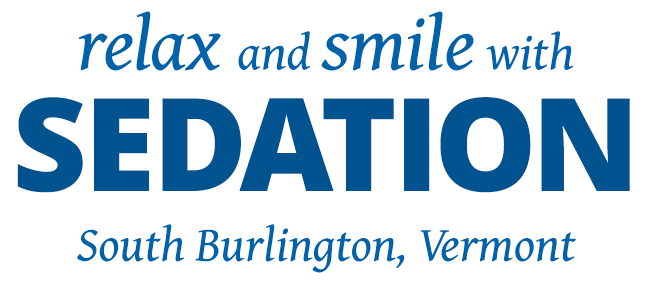
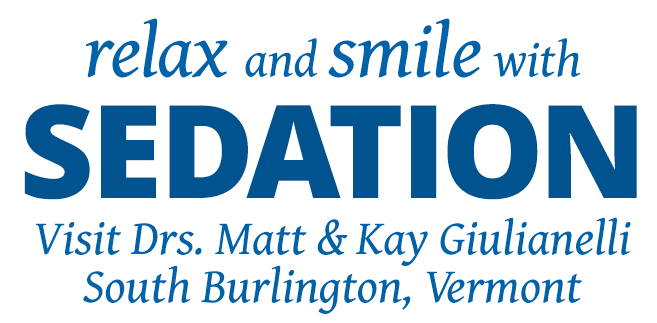
making client requested edits

Changed region(s): [[0.0, 0.3132, 0.9877, 0.968], [0.1235, 0.0285, 0.8951, 0.2562], [0.8333, 0.3132, 0.8951, 0.3701]]

diff --git a/public/index.html b/public/index.html
@@ -50,29 +50,6 @@
         ============================================= -->
         <div id="wrapper" class="clearfix">
 
-            <!-- Top Bar
-            ============================================= -->
-            <div id="top-bar" class="hidden-xs">
-                <div class="container clearfix">
-                    <div class="col_half nobottommargin">
-
-                        <!-- Top Bar Phone Number
-                        ============================================= -->
-                        <p class="nomargin call-today">Call today! <a href="tel:+18889720561"><strong>(888) 972-0561</strong></a></p>
-
-                    </div>
-                    <div class="col_half col_last fright nobottommargin">
-
-                        <!-- Top Bar Schedule Button
-                        ============================================= -->
-                        <a class="button button-small button-rounded center" data-toggle="modal" data-target="#schedule-form">Request Consultation</a>
-
-                    </div>
-                </div>
-            </div>
-
-
-
             <!-- Header
             ============================================= -->
             <header id="header" class="full-header static-sticky shadowed-edges">
@@ -84,10 +61,10 @@
                         ============================================= -->
                         <div id="logo" class="one-page-menu">
                             <a href="#" data-href="#home" class="standard-logo" data-offset="100">
-                                <img src="assets/images/giulianelli-logo.svg" alt="Champlain Smile Solutions Logo" />
+                                <img src="assets/images/logo-footer.svg" alt="Champlain Smile Solutions Logo" />
                             </a>
                             <a href="#" data-href="#home" class="retina-logo" data-offset="100">
-                                <img src="assets/images/giulianelli-logo.svg" alt="Champlain Smile Solutions Logo" />
+                                <img src="assets/images/logo-footer.svg" alt="Champlain Smile Solutions Logo" />
                             </a>
                         </div>
 
@@ -186,6 +163,20 @@
             <h4>Limit <u>6</u> consultation slots available before <%= data.endMonth %> <%= data.endDay %>, <%= data.endYear %></h4>
         </script>
 
+
+                <!-- Doctor Quote (mobile version)
+                ============================================= -->
+                <section id="quote" class="content-section clearfix page-section visible-xs visible-xxs">
+                    <div class="container clearfix">
+                        <div class="row">
+                            <div class="col-xs-12">
+                                <blockquote>
+                                    <p>&rdquo;We've been fortunate to help hundreds of patients transform their smiles and their lives. We'd be honored if you stopped by for a free consultation, giving us an opportunity to earn your trust.&ldquo; – <em>Drs. Matt &amp; Kay Giulianelli</em></p>
+                                </blockquote>
+                            </div>
+                        </div>
+                    </div>
+                </section>
                 <!-- Reviews
                 ============================================= -->
                 <section id="reviews" class="page-section shadowed-edges">

diff --git a/public/assets/css/champlainsmilesolutions.css b/public/assets/css/champlainsmilesolutions.css
@@ -192,44 +192,6 @@ header #logo img {
 
 }
 
-
-#top-bar {
-    background-color: #f0f0f0;
-    box-shadow: inset 0 -10px 10px -10px rgba(0, 0, 0, .2);
-    font-family: 'Open Sans', sans-serif;
-}
-
-#top-bar .call-today {
-    font-size: 22px;
-    color: #000 !important;
-}
-
-#top-bar .call-today a {
-    color: #000 !important;
-}
-
-#top-bar .call-today a:hover {
-    color: #000 !important;
-}
-
-#top-bar a.button,
-#top-bar button {
-    border-color: #ff6400 !important;
-    background-color: #ff6400 !important;
-    color: #ffffff !important;
-    border-radius: 0px !important;
-}
-
-#top-bar a.button:hover,
-#top-bar button:hover {
-    background-color: #333333 !important;
-    color: #fff !important;
-    border-color: #ffffff;
-    border-radius: 0px !important;
-}
-
-
-
 #slider {
 
 }
@@ -251,13 +213,13 @@ header #logo img {
 }
 
 #quote {
-    background-color: #f0f0f0;
-    color: #222222 !important;
+    background-color: #0164a5;
+    color: #ffffff !important;
     padding-top: 25px;
 }
 
 blockquote {
-    border-left: 5px solid #0164a5;
+    border-left: 5px solid #ff6400;
 }
 
 
